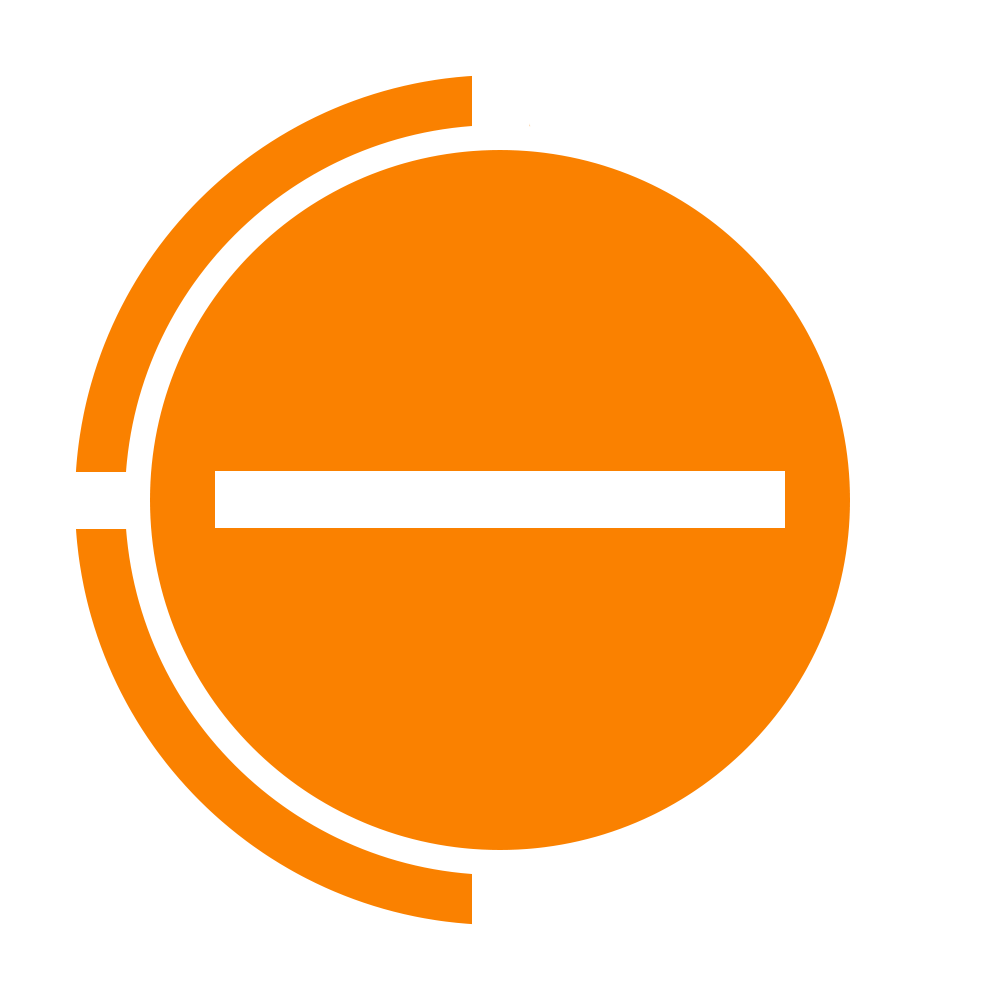
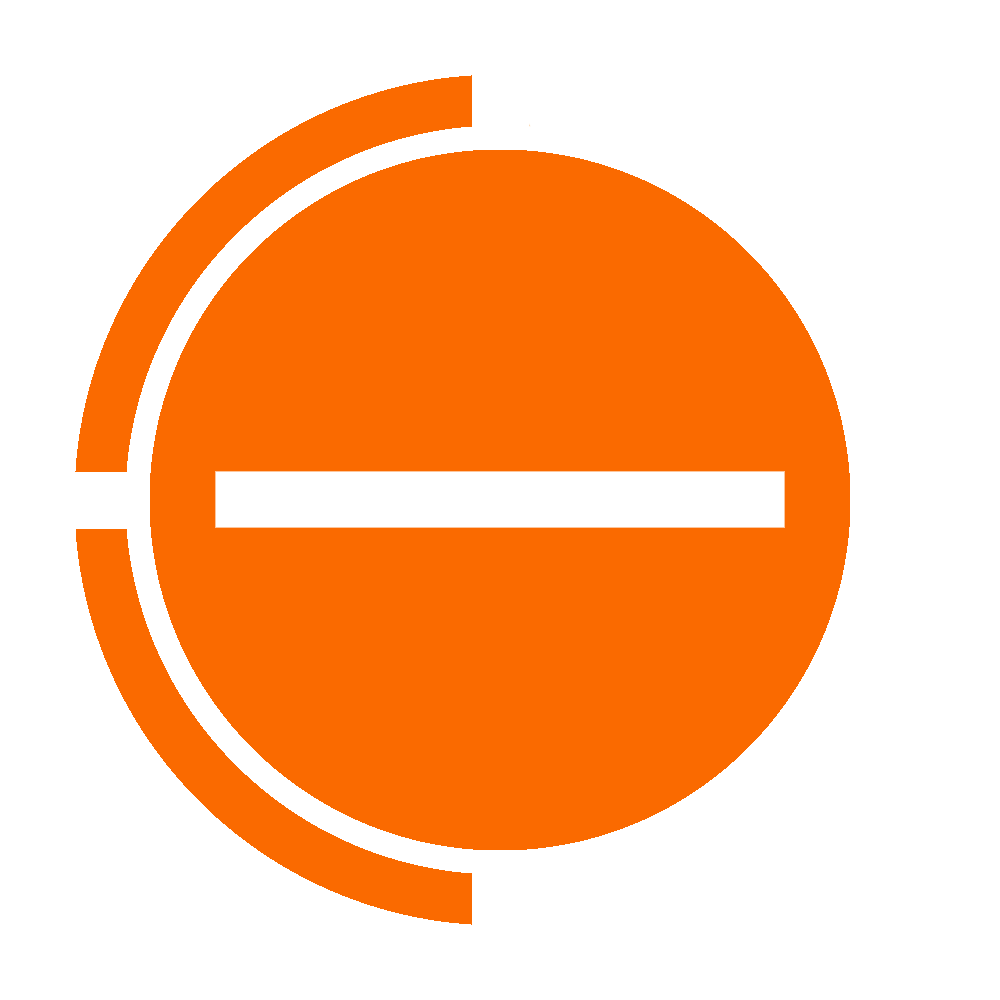
V2.0.5
Updated Icons

diff --git a/src/components/footer.vue b/src/components/footer.vue
@@ -24,7 +24,7 @@
         <p class="messagesNum">Paper</p>
       </div>
       <div class="status-item">
-        <img src="https://live.staticflickr.com/65535/54265089689_fcd864d237_o_d.png" alt="Tracking" id="Tracking">
+        <img src="https://live.staticflickr.com/65535/54265089689_a99f484562_o_d.png" alt="Tracking" id="Tracking">
         <p class="messagesNum">Tracking</p>
       </div>
     </div>
@@ -67,9 +67,9 @@ export default {
   methods: {
     getImageSrc(messages) {
       if (messages === 0) {
-        return 'https://live.staticflickr.com/65535/54262843340_988c73e09e_o_d.png';
+        return 'https://live.staticflickr.com/65535/54262843340_7afe33a4e3_o_d.png';
       } else {
-        return 'https://live.staticflickr.com/65535/54264885401_932921103d_o_d.png';
+        return 'https://live.staticflickr.com/65535/54264885401_99629c9803_o_d.png';
       }
     },
     toggleVisibility() {
@@ -86,9 +86,9 @@ export default {
       if (randomSignal < 10) {
         this.printerImage = 'https://live.staticflickr.com/65535/54262661719_3c33814e9d_o_d.png';
       } else if (randomSignal < 40) {
-        this.printerImage = 'https://live.staticflickr.com/65535/54262843335_2b52f87b6f_o_d.png';
+        this.printerImage = 'https://live.staticflickr.com/65535/54262843335_997362a3f3_o_d.png';
       } else {
-        this.printerImage = 'https://live.staticflickr.com/65535/54262423506_4e89c983c4_o_d.png';
+        this.printerImage = 'https://live.staticflickr.com/65535/54264871386_d81d4d41d3_o_d.png';
       }
     },
     checkLocationPermission() {
@@ -113,13 +113,13 @@ export default {
       const accuracy = position.coords.accuracy;
       if (accuracy < 10) {
         this.gpsStrength = 3;
-        this.gpsImage = 'https://live.staticflickr.com/65535/54262423506_4e89c983c4_o_d.png';
+        this.gpsImage = 'https://live.staticflickr.com/65535/54264871386_d81d4d41d3_o_d.png';
       } else if (accuracy < 50) {
         this.gpsStrength = 2;
-        this.gpsImage = 'https://live.staticflickr.com/65535/54262661674_f182df8274_o_d.png';
+        this.gpsImage = 'https://live.staticflickr.com/65535/54262661674_348b293572_o_d.png';
       } else if (accuracy < 100) {
         this.gpsStrength = 1;
-        this.gpsImage = 'https://live.staticflickr.com/65535/54261533367_2c09f08a7f_o_d.png';
+        this.gpsImage = 'https://live.staticflickr.com/65535/54261533367_c04bc3c716_o_d.png';
       } else {
         this.gpsStrength = 0;
         this.gpsImage = 'https://live.staticflickr.com/65535/54262661719_3c33814e9d_o_d.png';
@@ -130,11 +130,11 @@ export default {
       const domComplete = performance.timing.domComplete;
       const loadTime = domComplete - navigationStart;
       if (loadTime < 1000) {
-        this.wifiImage = 'https://live.staticflickr.com/65535/54262423506_4e89c983c4_o_d.png';
+        this.wifiImage = 'https://live.staticflickr.com/65535/54264871386_d81d4d41d3_o_d.png';
       } else if (loadTime < 2000) {
-        this.wifiImage = 'https://live.staticflickr.com/65535/54262423506_4e89c983c4_o_d.png';
+        this.wifiImage = 'https://live.staticflickr.com/65535/54262661674_348b293572_o_d.png';
       } else if (loadTime < 5000) {
-        this.wifiImage = 'https://live.staticflickr.com/65535/54261533367_2c09f08a7f_o_d.png';
+        this.wifiImage = 'https://live.staticflickr.com/65535/54261533367_c04bc3c716_o_d.png';
       } else {
         this.wifiImage = 'https://live.staticflickr.com/65535/54262661719_3c33814e9d_o_d.png';
       }

diff --git a/src/components/ticketSelling.vue b/src/components/ticketSelling.vue
@@ -50,6 +50,15 @@
             <button @click="increaseCount(ticket)">+</button>
             <p>{{ ticket.ticketer_name || ticket.ticket_name }}</p>
         </div>
+        <div class="ticket1">
+
+        </div>
+        <div class="ticket1">
+
+        </div>
+        <div class="ticket1">
+
+        </div>
     </div>
     <div v-else>
         <p>No tickets available for this zone.</p>
@@ -224,7 +233,7 @@ export default {
             const trackingImg = document.getElementById('Tracking');
             const dontLog = localStorage.getItem('dontLog');
             if (!dontLog) {
-                trackingImg.src = 'https://live.staticflickr.com/65535/54264871386_a378d6b4fb_o_d.png';
+                trackingImg.src = 'https://live.staticflickr.com/65535/54264871386_d81d4d41d3_o_d.png';
             }
             // Ensure the routeArray has content
             if (this.routeArray.length) {
@@ -618,8 +627,14 @@ export default {
     font-size: 2vh;
 }
 
+.ticket1 {
+    height: 15vh;
+    text-align: center;
+    background-color: #ffffff;
+}
+
 .ticket {
-    max-height: 16.666vh;
+    height: 15vh;
     text-align: center;
     background-color: #c5c2c5;
 }
